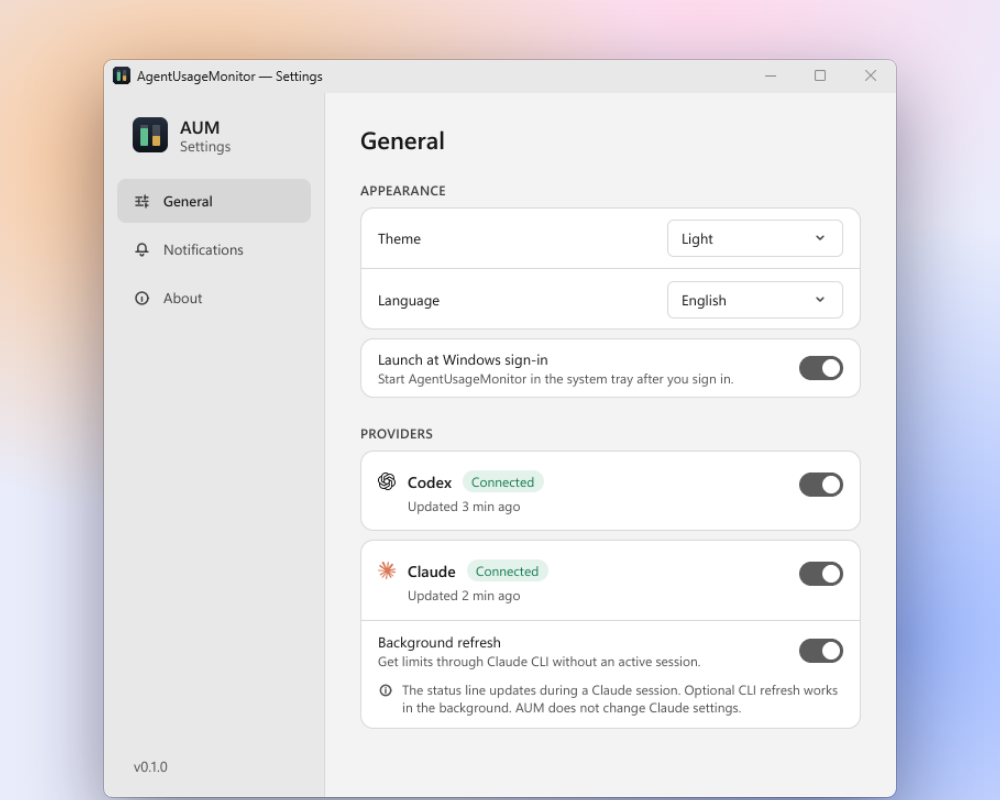
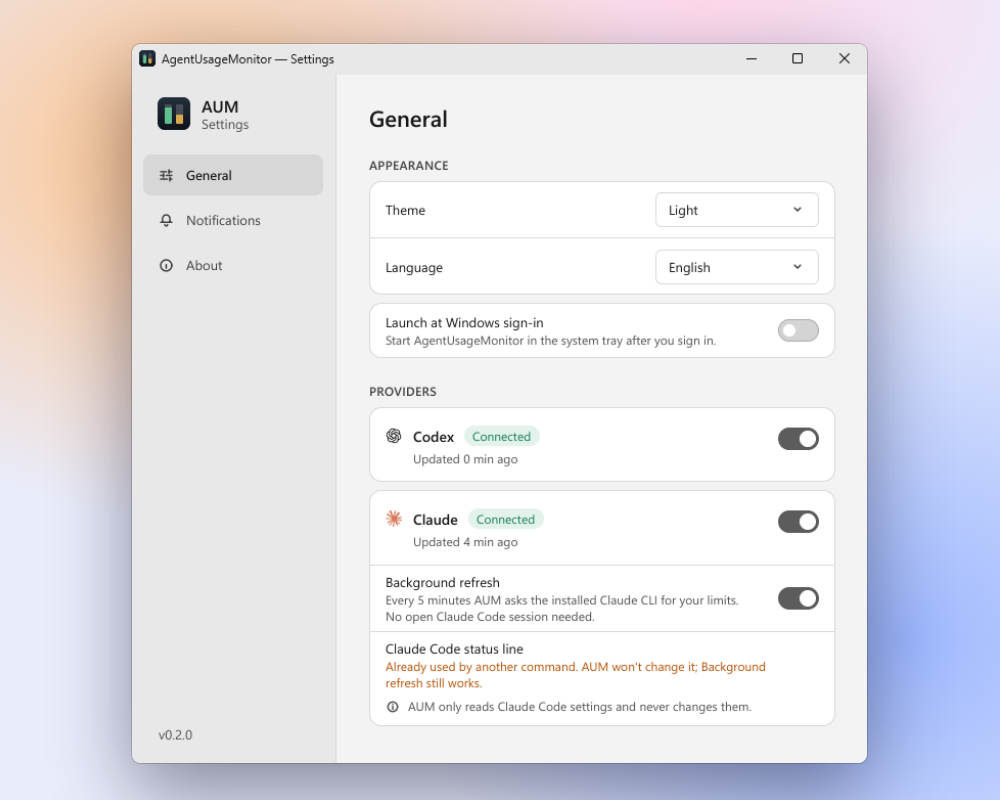
docs: refresh v0.2.0 showcase screenshots

Changed region(s): [[0.093, 0.0312, 0.93, 1.0], [0.341, 0.125, 0.744, 0.5]]

diff --git a/docs/state/docs-readme-v020-accuracy.md b/docs/state/docs-readme-v020-accuracy.md
@@ -1,0 +1,61 @@
+# State: docs/readme-v020-accuracy
+
+_Handoff file for this branch, in the Agent Kit handoff skill format. Only this branch's agent edits it._
+
+## Goal and constraints
+- Replace only the 10 showcase PNGs from the user-provided v0.2.0 archive, preserve app/source/release assets, commit and push to PR #5 branch, inspect CI and PR preview, do not merge.
+
+## Done
+- Confirmed source archive exists at C:\Users\fetis\Downloads\aum-showcase-v0.2.0.zip and contains all requested PNG files.
+- Replaced exactly 10 showcase PNGs from the archive. README, icon, social preview, store assets and source are unchanged.
+- Verified all 10 PNGs decode and dimensions; all README image references resolve.
+- PR #5 was OPEN; windows CI was SUCCESS before this change. Post-push check remains pending.
+
+## Git state
+- HEAD before handoff commit: c8f32f695513594d8ea95b49646355b333671e6d
+- Branch: docs/readme-v020-accuracy
+- Status before commit:
+M assets/about.png
+ M assets/hero.png
+ M assets/languages.png
+ M assets/main-dark.png
+ M assets/main-light.png
+ M assets/notifications.png
+ M assets/settings-dark.png
+ M assets/settings-light.png
+ M assets/themes.png
+ M assets/tray.png
+?? docs/state/docs-readme-v020-accuracy.md
+- Diff stat:
+assets/about.png          | Bin 319673 -> 300199 bytes
+ assets/hero.png           | Bin 878566 -> 851520 bytes
+ assets/languages.png      | Bin 585612 -> 650226 bytes
+ assets/main-dark.png      | Bin 567374 -> 567182 bytes
+ assets/main-light.png     | Bin 499562 -> 499415 bytes
+ assets/notifications.png  | Bin 311380 -> 303662 bytes
+ assets/settings-dark.png  | Bin 307041 -> 360892 bytes
+ assets/settings-light.png | Bin 278819 -> 317517 bytes
+ assets/themes.png         | Bin 426236 -> 425389 bytes
+ assets/tray.png           | Bin 610381 -> 614005 bytes
+ 10 files changed, 0 insertions(+), 0 deletions(-)
+
+## Changed files
+- ssets/about.png, ssets/hero.png, ssets/languages.png, ssets/main-dark.png, ssets/main-light.png, ssets/notifications.png, ssets/settings-dark.png, ssets/settings-light.png, ssets/themes.png, ssets/tray.png
+- docs/state/docs-readme-v020-accuracy.md
+
+## Checks
+- System.Drawing.Image.FromFile verified each PNG and reported dimensions (all decoded).
+- README image reference scan: no missing referenced images.
+- git diff --quiet -- README.md assets/icon.png assets/social-preview.jpg assets/store: unchanged.
+- Post-push Actions and PR preview: pending.
+
+## Decisions (and why)
+- Used only the exact archive assets requested; excluded README-snippet.md, video files, icon and social-preview.
+- Added this branch state file using the local Agent Kit template because global rules require a state file.
+
+## Blockers
+- None.
+
+## Next actions
+1. Commit the 10 PNG replacements and this state file, push branch.
+2. Check updated PR #5 Actions and preview; report merge readiness if checks pass. Do not merge.
